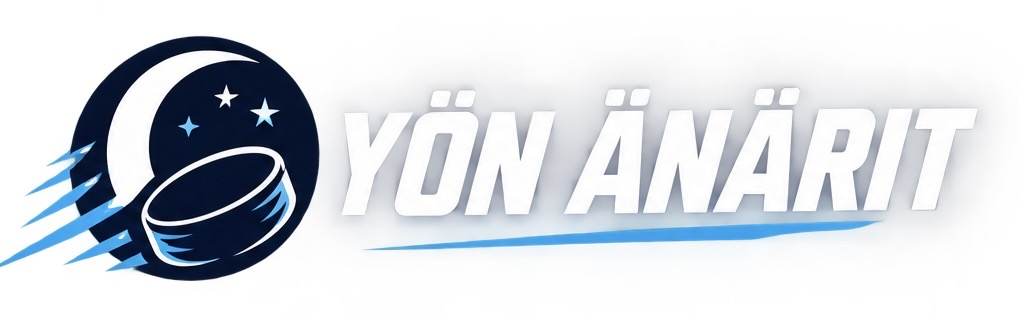
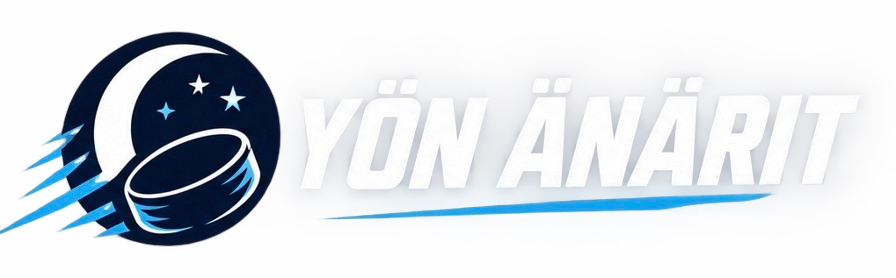
Goalie leaderboard shutouts column, player card totals, season backfill
- Maalivahtipörssi: replace losses/OTL columns with a shutouts (NP) column
- Leaderboard tables: denser spacing to cut horizontal scroll; team filter
  dropdown now shows team logos
- Player card: season/career totals render as bold summary rows in the
  game log table (matching the per-game row style) instead of a plain-text
  line; fixes the large gap between the opponent and goal-stat columns
- sync_fast_tier.py: add --weeks to backfill the full season's schedule
  into D1 in one run, so future dates are already present and the rolling
  sync just updates scores/states as each date resolves
- Copy the new transparent banner PNGs into the served static directory

diff --git a/web/functions/pelaajat/[playerId].ts b/web/functions/pelaajat/[playerId].ts
@@ -13,7 +13,7 @@
 // (confirmed -- landing() has nothing resembling it), so that part of the
 // ask is simply not available from this data source.
 
-import { escapeHtml, nationalityFlag } from "../_shared/format";
+import { escapeHtml, nationalityFlag, shortDate } from "../_shared/format";
 import { renderLayout } from "../_shared/layout";
 import type { Env } from "../_shared/types";
 
@@ -57,12 +57,18 @@ interface SeasonTotal {
   goals?: number;
   assists?: number;
   points?: number;
+  plusMinus?: number;
+  pim?: number;
+  avgToi?: string;
   wins?: number;
   losses?: number;
   otLosses?: number;
-  goalsAgainstAverage?: number;
+  goalsAgainstAvg?: number;
   savePctg?: number;
   shutouts?: number;
+  shotsAgainst?: number;
+  goalsAgainst?: number;
+  timeOnIce?: string; // cumulative, goalies -- avgToi above is skaters' per-game average
 }
 
 function seasonLabel(season: number): string {
@@ -81,12 +87,29 @@ function renderSeasonSelect(playerId: number, seasons: number[], selected: numbe
   </form>`;
 }
 
-function renderSkaterGameLog(games: any[]): string {
+function renderSkaterTotalRow(label: string, t: SeasonTotal): string {
+  return `
+      <tr class="total-row">
+        <td colspan="2">${escapeHtml(label)} (${t.gamesPlayed})</td>
+        <td>${t.goals ?? 0}</td>
+        <td>${t.assists ?? 0}</td>
+        <td class="stat-strong">${t.points ?? 0}</td>
+        <td>${(t.plusMinus ?? 0) > 0 ? "+" : ""}${t.plusMinus ?? 0}</td>
+        <td>${t.pim ?? 0}</td>
+        <td>${t.avgToi ? escapeHtml(t.avgToi) : "–"}</td>
+      </tr>`;
+}
+
+function renderSkaterGameLog(games: any[], careerTotal: SeasonTotal | null, seasonTotal: SeasonTotal | null): string {
+  const totalRows = `
+    ${careerTotal ? renderSkaterTotalRow("Ura", careerTotal) : ""}
+    ${seasonTotal ? renderSkaterTotalRow("Kausi", seasonTotal) : ""}`;
+
   const rows = games
     .map(
       (g) => `
       <tr>
-        <td>${escapeHtml(g.gameDate)}</td>
+        <td>${escapeHtml(shortDate(g.gameDate))}</td>
         <td>${g.homeRoadFlag === "H" ? "vs" : "@"} ${escapeHtml(g.opponentAbbrev)}</td>
         <td>${g.goals}</td>
         <td>${g.assists}</td>
@@ -100,7 +123,7 @@ function renderSkaterGameLog(games: any[]): string {
 
   return `
   <div class="stats-table-wrap">
-    <table class="stats-table">
+    <table class="stats-table game-log-table">
       <thead>
         <tr>
           <th>Pvm</th>
@@ -113,18 +136,35 @@ function renderSkaterGameLog(games: any[]): string {
           <th>Peliaika</th>
         </tr>
       </thead>
-      <tbody>${rows}</tbody>
+      <tbody>${totalRows}${rows}</tbody>
     </table>
   </div>`;
 }
 
-function renderGoalieGameLog(games: any[]): string {
+function renderGoalieTotalRow(label: string, t: SeasonTotal): string {
+  const saves = (t.shotsAgainst ?? 0) - (t.goalsAgainst ?? 0);
+  return `
+      <tr class="total-row">
+        <td colspan="2">${escapeHtml(label)} (${t.gamesPlayed})</td>
+        <td>${t.wins ?? 0}-${t.losses ?? 0}-${t.otLosses ?? 0}</td>
+        <td>${saves}/${t.shotsAgainst ?? 0}</td>
+        <td class="stat-strong">${(t.savePctg ?? 0).toFixed(3)}</td>
+        <td>${t.shutouts ?? 0}</td>
+        <td>${t.timeOnIce ? escapeHtml(t.timeOnIce) : "–"}</td>
+      </tr>`;
+}
+
+function renderGoalieGameLog(games: any[], careerTotal: SeasonTotal | null, seasonTotal: SeasonTotal | null): string {
+  const totalRows = `
+    ${careerTotal ? renderGoalieTotalRow("Ura", careerTotal) : ""}
+    ${seasonTotal ? renderGoalieTotalRow("Kausi", seasonTotal) : ""}`;
+
   const rows = games
     .map((g) => {
       const saves = (g.shotsAgainst ?? 0) - (g.goalsAgainst ?? 0);
       return `
       <tr>
-        <td>${escapeHtml(g.gameDate)}</td>
+        <td>${escapeHtml(shortDate(g.gameDate))}</td>
         <td>${g.homeRoadFlag === "H" ? "vs" : "@"} ${escapeHtml(g.opponentAbbrev)}</td>
         <td>${g.decision ? escapeHtml(GOALIE_DECISION_FI[g.decision] ?? g.decision) : "–"}</td>
         <td>${saves}/${g.shotsAgainst ?? 0}</td>
@@ -137,7 +177,7 @@ function renderGoalieGameLog(games: any[]): string {
 
   return `
   <div class="stats-table-wrap">
-    <table class="stats-table">
+    <table class="stats-table game-log-table">
       <thead>
         <tr>
           <th>Pvm</th>
@@ -149,7 +189,7 @@ function renderGoalieGameLog(games: any[]): string {
           <th>Peliaika</th>
         </tr>
       </thead>
-      <tbody>${rows}</tbody>
+      <tbody>${totalRows}${rows}</tbody>
     </table>
   </div>`;
 }
@@ -183,26 +223,22 @@ export const onRequestGet: PagesFunction<Env> = async (context) => {
   const requestedSeason = Number(url.searchParams.get("season"));
   const selectedSeason = seasons.includes(requestedSeason) ? requestedSeason : (seasons[0] ?? currentSeasonId());
 
+  const seasonTotal = seasonTotals.find((s) => s.season === selectedSeason) ?? null;
+  const careerTotal: SeasonTotal | null = landing.careerTotals?.regularSeason ?? null;
+
   let gameLogHtml = "";
   try {
     const gameLog = await fetchJson(`/player/${playerId}/game-log/${selectedSeason}/2`);
     const games = gameLog.gameLog ?? [];
     gameLogHtml = games.length
       ? isGoalie
-        ? renderGoalieGameLog(games)
-        : renderSkaterGameLog(games)
+        ? renderGoalieGameLog(games, careerTotal, seasonTotal)
+        : renderSkaterGameLog(games, careerTotal, seasonTotal)
       : `<p class="empty-note">Ei pelattuja otteluita tälle kaudelle.</p>`;
   } catch (error) {
     console.error(`Player game log fetch failed for ${playerId}/${selectedSeason}:`, error);
     gameLogHtml = `<p class="empty-note">Ottelukohtaisia tilastoja ei juuri nyt saatu.</p>`;
   }
-
-  const seasonSummary = seasonTotals.find((s) => s.season === selectedSeason);
-  const summaryLine = seasonSummary
-    ? isGoalie
-      ? `${seasonSummary.gamesPlayed} ottelua, ${seasonSummary.wins ?? 0}-${seasonSummary.losses ?? 0}-${seasonSummary.otLosses ?? 0}, ${(seasonSummary.savePctg ?? 0).toFixed(3)} SV%`
-      : `${seasonSummary.gamesPlayed} ottelua, ${seasonSummary.goals ?? 0}+${seasonSummary.assists ?? 0}=${seasonSummary.points ?? 0} p`
-    : "";
 
   const age = landing.birthDate ? ageFromBirthDate(landing.birthDate) : null;
   const handedness = landing.shootsCatches ? (HANDEDNESS_FI[landing.shootsCatches] ?? landing.shootsCatches) : null;
@@ -234,7 +270,6 @@ export const onRequestGet: PagesFunction<Env> = async (context) => {
 <section>
   <h2 class="section-title">Kauden tilastot</h2>
   ${renderSeasonSelect(playerId, seasons.length ? seasons : [currentSeasonId()], selectedSeason)}
-  ${summaryLine ? `<p class="subtitle">${escapeHtml(summaryLine)}</p>` : ""}
   ${gameLogHtml}
 </section>
 `;

diff --git a/web/functions/_shared/leaderboard.ts b/web/functions/_shared/leaderboard.ts
@@ -28,12 +28,16 @@ function multiFilterDropdown(filterKey: string, allLabel: string, options: { val
   </details>`;
 }
 
-function teamFilterDropdown(rows: { team_abbrev: string }[]): string {
-  const teams = [...new Set(rows.map((r) => r.team_abbrev))].sort();
+function teamFilterDropdown(rows: { team_abbrev: string; logo: string }[]): string {
+  const logoByTeam = new Map(rows.map((r) => [r.team_abbrev, r.logo]));
+  const teams = [...logoByTeam.keys()].sort();
   return multiFilterDropdown(
     "team",
     "Kaikki joukkueet",
-    teams.map((t) => ({ value: t, label: escapeHtml(t) })),
+    teams.map((t) => ({
+      value: t,
+      label: `<img src="${escapeHtml(logoByTeam.get(t) ?? "")}" alt="" class="multi-filter-logo" loading="lazy">${escapeHtml(t)}`,
+    })),
   );
 }
 
@@ -135,8 +139,8 @@ function renderGoalieRow(row: GoalieStatsRow, rank: number): string {
   return `
       <tr class="${rowClasses}" data-name="${escapeHtml(row.name)}" data-team="${escapeHtml(row.team_abbrev)}"
           data-nationality="${escapeHtml(row.nationality)}"
-          data-gp="${row.games_played}" data-wins="${row.wins}" data-losses="${row.losses}"
-          data-otl="${row.ot_losses}" data-gaa="${row.goals_against_average}" data-rank="${rank}">
+          data-gp="${row.games_played}" data-wins="${row.wins}" data-shutouts="${row.shutouts}"
+          data-gaa="${row.goals_against_average}" data-rank="${rank}">
         <td class="col-rank">${rank}</td>
         <td>
           <a href="/pelaajat/${row.player_id}" class="player-cell">
@@ -150,10 +154,9 @@ function renderGoalieRow(row: GoalieStatsRow, rank: number): string {
         <td><img src="${escapeHtml(row.logo)}" alt="" class="table-team-logo" loading="lazy">${escapeHtml(row.team_abbrev)}</td>
         <td>${row.games_played}</td>
         <td>${row.wins}</td>
-        <td>${row.losses}</td>
-        <td>${row.ot_losses}</td>
         <td>${row.goals_against_average.toFixed(2)}</td>
         <td class="stat-strong">${row.save_pct.toFixed(3)}</td>
+        <td>${row.shutouts}</td>
       </tr>`;
 }
 
@@ -186,10 +189,9 @@ export function renderGoalieLeaderboard(options: GoalieLeaderboardOptions): stri
           <th data-sort="team" data-type="text">Jkk</th>
           <th data-sort="gp">O</th>
           <th data-sort="wins">V</th>
-          <th data-sort="losses">H</th>
-          <th data-sort="otl">JH</th>
           <th data-sort="gaa">GAA</th>
           <th data-sort="rank" data-first-dir="asc" class="sort-asc">SV%</th>
+          <th data-sort="shutouts">NP</th>
         </tr>
       </thead>
       <tbody>${body}</tbody>

diff --git a/web/public/static/style.css b/web/public/static/style.css
@@ -1122,13 +1122,13 @@ main {
 .stats-table {
   border-collapse: collapse;
   width: 100%;
-  font-size: 0.82rem;
+  font-size: 0.78rem;
   white-space: nowrap;
 }
 
 .stats-table th,
 .stats-table td {
-  padding: 8px 10px;
+  padding: 6px 5px;
   text-align: right;
 }
 
@@ -1300,6 +1300,13 @@ main {
   flex-shrink: 0;
 }
 
+.multi-filter-logo {
+  width: 18px;
+  height: 18px;
+  object-fit: contain;
+  flex-shrink: 0;
+}
+
 /* Bigger breathing room on Asetukset than the rest of the site's default
    (tighter) spacing -- this page is mostly forms/lists, not dense tables. */
 .settings-page {
@@ -1323,12 +1330,33 @@ main {
 .stats-table td:nth-child(2) {
   text-align: left;
   white-space: normal;
-  min-width: 150px;
+  min-width: 108px;
+}
+
+/* Player card game logs reuse .stats-table but their 2nd column is the
+   opponent, not a player name -- revert the wide-left-aligned override. */
+.game-log-table th:nth-child(2),
+.game-log-table td:nth-child(2) {
+  text-align: right;
+  white-space: nowrap;
+  min-width: 0;
 }
 
 .stats-table th:first-child,
 .stats-table td:first-child {
   text-align: center;
+}
+
+.total-row {
+  font-size: 0.88rem;
+  font-weight: 600;
+  background: var(--bg-alt, rgba(128, 128, 128, 0.08));
+  border-bottom: 2px solid var(--border);
+}
+
+.total-row td {
+  padding-top: 8px;
+  padding-bottom: 8px;
 }
 
 .stats-table thead th {
@@ -1360,14 +1388,14 @@ main {
 .player-cell {
   display: flex;
   align-items: center;
-  gap: 8px;
+  gap: 6px;
   color: inherit;
   text-decoration: none;
 }
 
 .player-cell img {
-  width: 28px;
-  height: 28px;
+  width: 24px;
+  height: 24px;
   border-radius: 50%;
   object-fit: cover;
   background: var(--bg);

diff --git a/web/functions/_shared/types.ts b/web/functions/_shared/types.ts
@@ -65,6 +65,7 @@ export interface GoalieStatsRow {
   ot_losses: number;
   goals_against_average: number;
   save_pct: number;
+  shutouts: number;
 }
 
 export interface FinnishSkaterRow {

diff --git a/src/morning_hockey/sync_fast_tier.py b/src/morning_hockey/sync_fast_tier.py
@@ -9,6 +9,7 @@ also keep a permanent game-results archive, with no separate archive table.
 from __future__ import annotations
 
 import argparse
+import datetime as dt
 import os
 
 from .d1_sync import D1Client, sync_schedule
@@ -16,17 +17,27 @@ from .nhl_api import NHLClient
 from .schedule import build_schedule
 
 
-def run(date: str = "now") -> None:
+def run(date: str = "now", weeks: int = 1) -> None:
     account_id = os.environ["CF_ACCOUNT_ID"]
     database_id = os.environ["CF_D1_DATABASE_ID"]
     api_token = os.environ["CF_API_TOKEN"]
 
     client = NHLClient()
-    page = build_schedule(client, date)
-
     d1 = D1Client(account_id, database_id, api_token)
-    count = sync_schedule(d1, page)
-    print(f"Synced {count} games across {len(page.days)} days to D1.")
+
+    current_date = date
+    total = 0
+    for week in range(weeks):
+        page = build_schedule(client, current_date)
+        count = sync_schedule(d1, page)
+        total += count
+        print(f"Synced {count} games across {len(page.days)} days to D1 (week {week + 1}/{weeks}, as_of {page.as_of_date}).")
+        if not page.days:
+            break
+        current_date = (dt.date.fromisoformat(page.as_of_date) + dt.timedelta(days=7)).isoformat()
+
+    if weeks > 1:
+        print(f"Done: synced {total} games total across {weeks} week(s).")
 
 
 def main() -> None:
@@ -39,8 +50,18 @@ def main() -> None:
         "runs against (e.g. the season's opening night, if fast-tier syncing "
         "only started after it) -- the scheduled workflow never passes this.",
     )
+    parser.add_argument(
+        "--weeks",
+        type=int,
+        default=1,
+        help="How many consecutive weeks to sync starting from --date, advancing 7 "
+        "days each time. Used for a one-time full-season backfill (e.g. "
+        "--date 2026-09-24 --weeks 30) so every future date already has rows in D1 "
+        "and the normal rolling sync just needs to update scores/states as each "
+        "date resolves -- the scheduled workflow never passes this.",
+    )
     args = parser.parse_args()
-    run(args.date)
+    run(args.date, args.weeks)
 
 
 if __name__ == "__main__":
